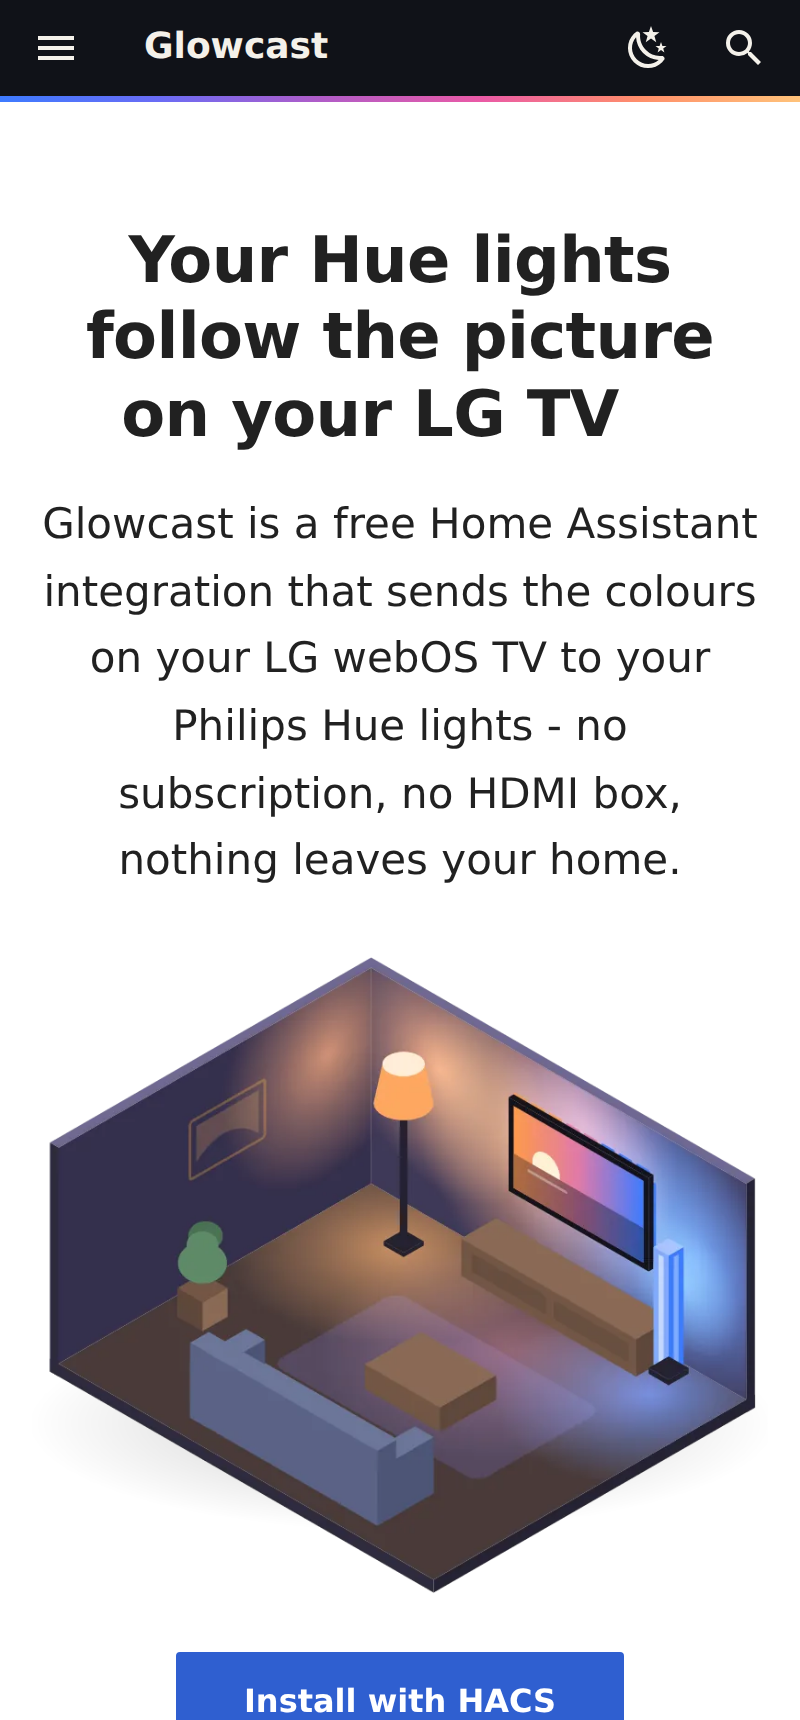
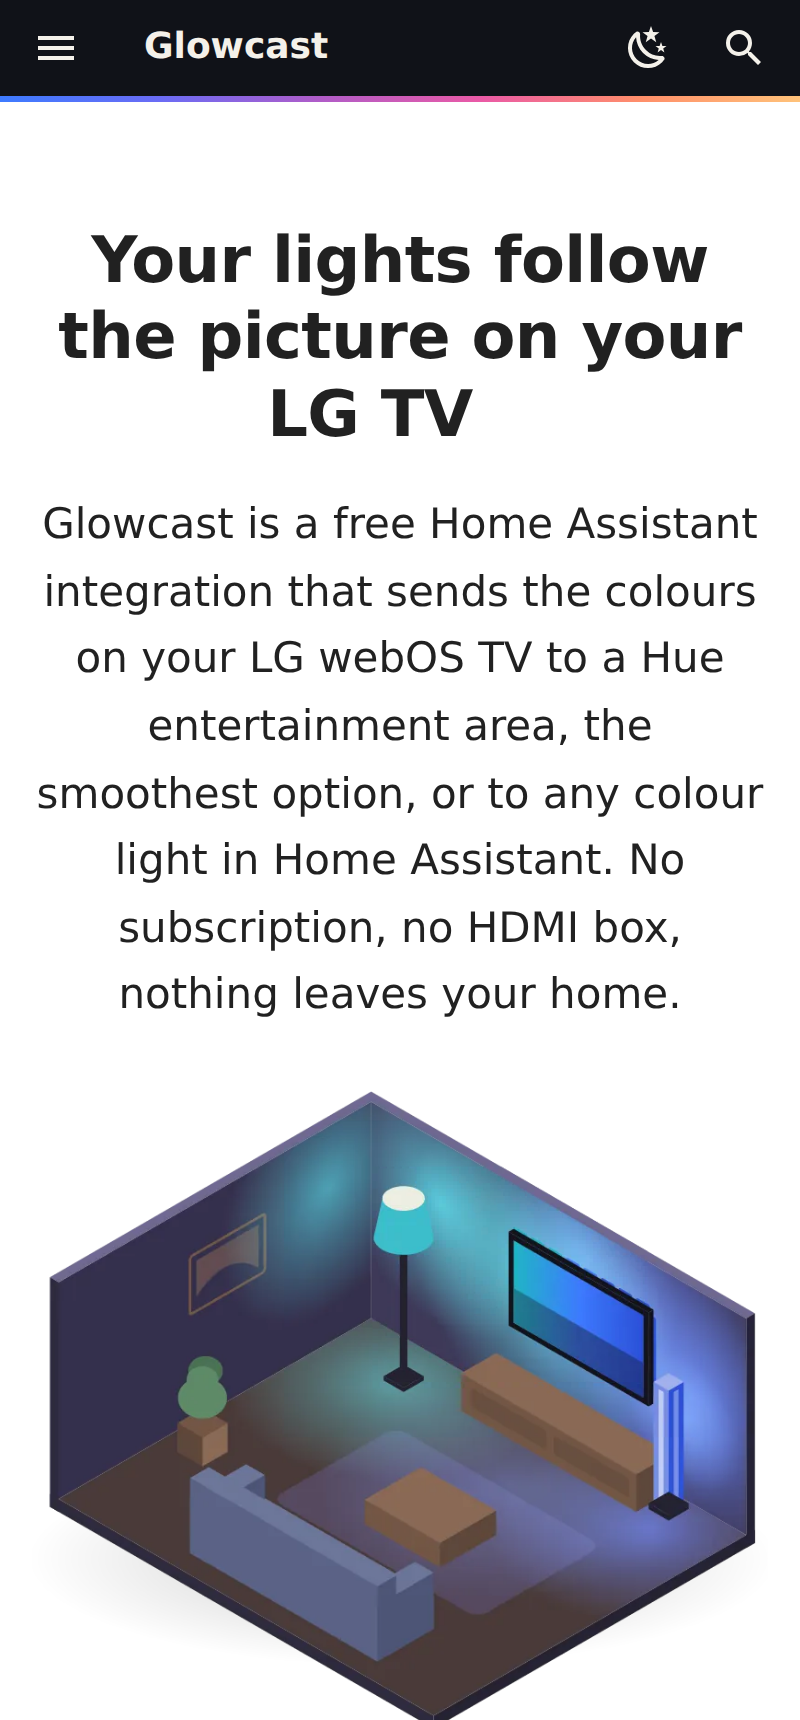
Texts after v0.3: "your lights" on the landing page, "follow the picture" (#209)
The landing page's headline and intro speak of your lights, with a Hue
entertainment area as the smoothest option and any colour light in Home
Assistant; the screenshot docs/images/website.png is made again from a
local build (400 px at scale 2, as before). The "light in both" error
(ha_lights_in_area, exceptions.lights_in_area) and the guide's quote of
it say the lights already follow the picture through the entertainment
area, in English and Dutch.

diff --git a/website/pages/index.md b/website/pages/index.md
@@ -1,6 +1,6 @@
 ---
-title: Hue lights that follow your LG TV
-description: Glowcast lets your Philips Hue lights follow what's on your LG webOS TV, from Home Assistant - no subscription, no HDMI box, nothing leaves your home.
+title: Lights that follow your LG TV
+description: Glowcast lets your lights follow what's on your LG webOS TV, from Home Assistant, with a Hue entertainment area or any colour light - no subscription, no HDMI box, nothing leaves your home.
 hide:
   - navigation
   - toc
@@ -8,9 +8,9 @@ hide:
 
 <div class="gc-hero" markdown>
 
-# Your Hue lights follow the picture on your LG TV
+# Your lights follow the picture on your LG TV
 
-<p class="gc-lead">Glowcast is a free Home Assistant integration that sends the colours on your LG webOS TV to your Philips Hue lights - no subscription, no HDMI box, nothing leaves your home.</p>
+<p class="gc-lead">Glowcast is a free Home Assistant integration that sends the colours on your LG webOS TV to a Hue entertainment area, the smoothest option, or to any colour light in Home Assistant. No subscription, no HDMI box, nothing leaves your home.</p>
 
 ![An illustrated living room: the picture on the TV changes colour and the light strip and lamps follow it.](images/illustrations/scene-1-picture-leads-loop.webp)
 

diff --git a/website/pages/guide/lights.md b/website/pages/guide/lights.md
@@ -28,7 +28,7 @@ One Glowcast can drive an entertainment area and Home Assistant lights at the sa
 
 Set it up under **Configure**: choose **Entertainment area and Home Assistant lights**. You go through the [entertainment area's steps](setup.md#an-entertainment-area) first, then the [Home Assistant lights' steps](setup.md#home-assistant-lights), then brightness, intensity and the update rate. See [Both together](setup.md#both-together) on the next page.
 
-A light cannot be in both. If a Home Assistant light you pick is already in the entertainment area, the settings screen says so: "... already follow the TV through the entertainment area, so they cannot also be Home Assistant lights". Pick the other lights one by one, or an area or group without them.
+A light cannot be in both. If a Home Assistant light you pick is already in the entertainment area, the settings screen says so: "... already follow the picture through the entertainment area, so they cannot also be Home Assistant lights". Pick the other lights one by one, or an area or group without them.
 
 
 ## Next to a Hue Sync Box
